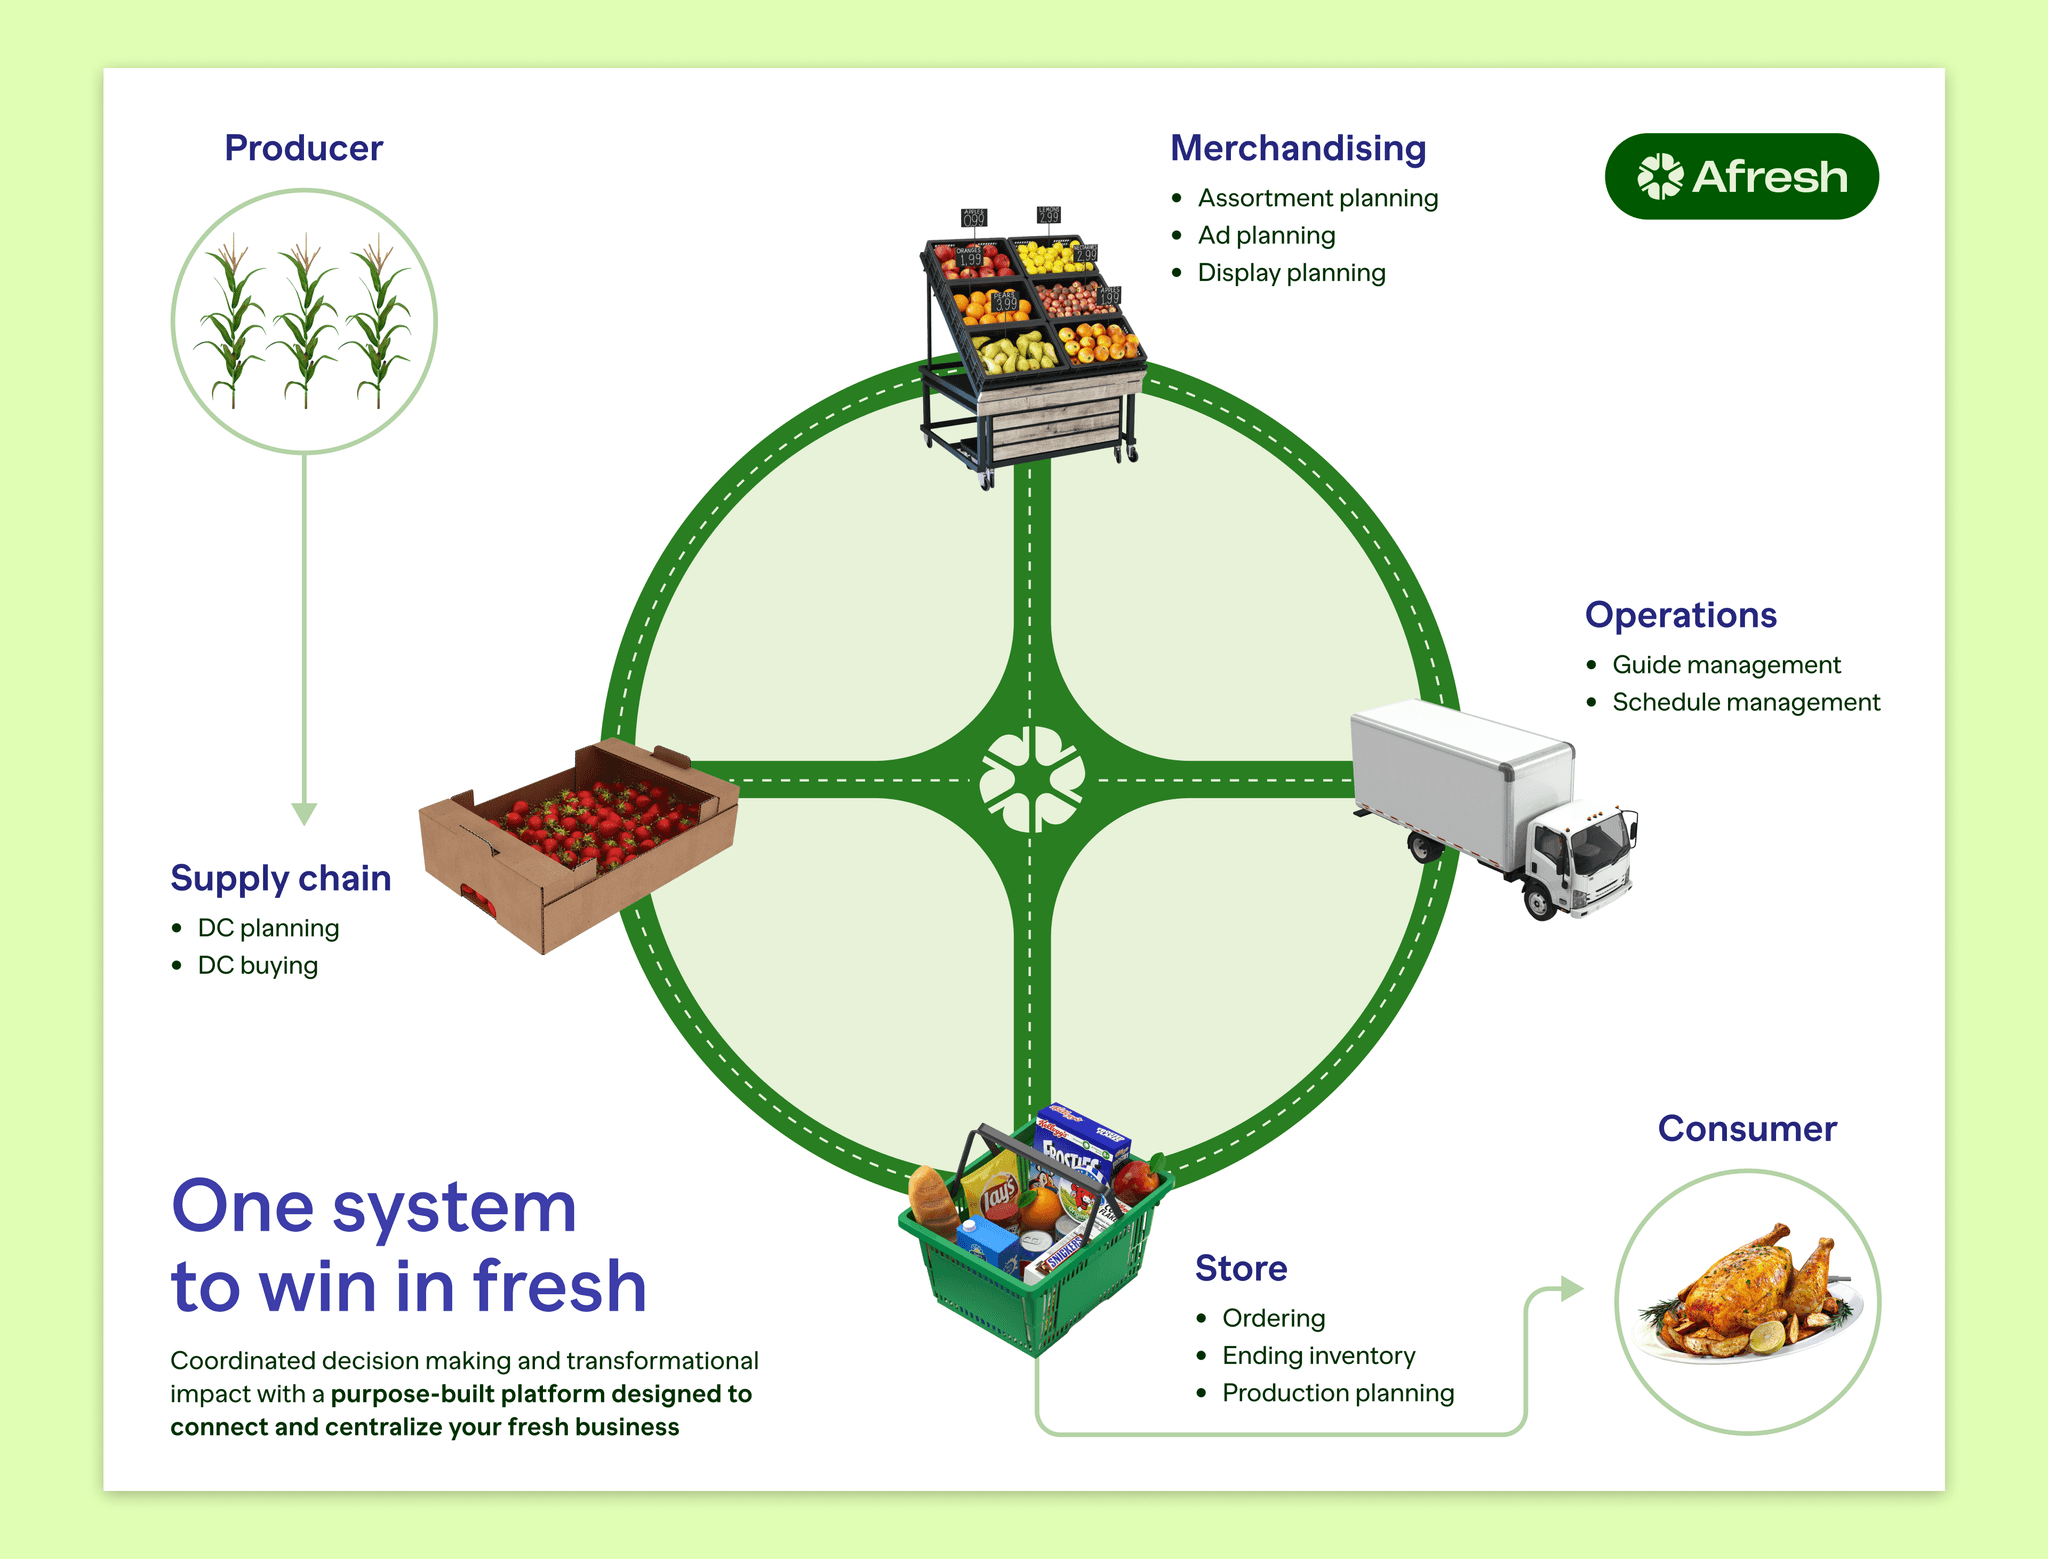
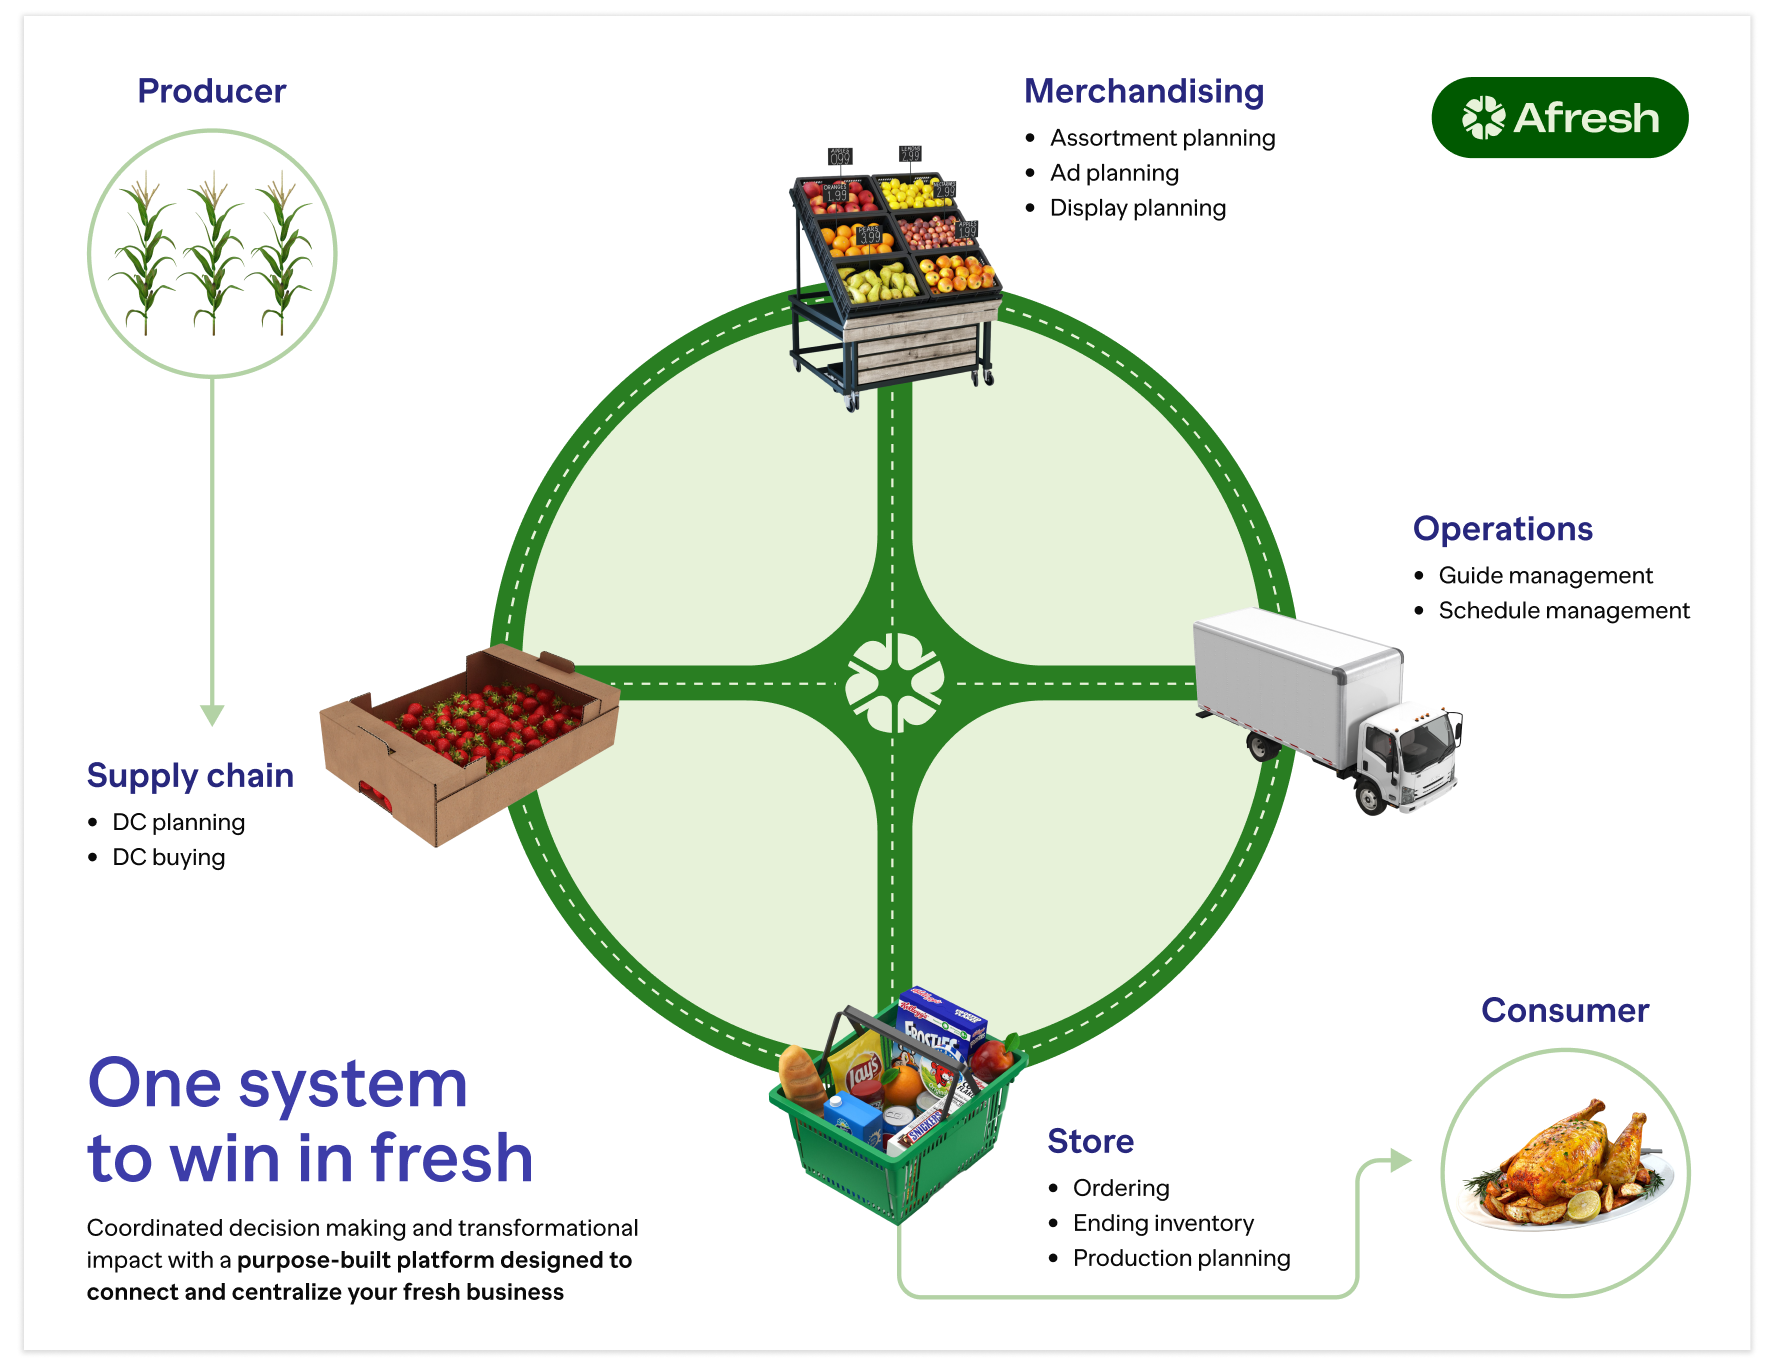
Update Afresh diagram and Guac circular/moodboard images
- Afresh brand refresh: new "One system to win in fresh" diagram
- Guac: new moodboard, new grocery circular pages 1 and 2
- Guac: stack circular pages full-width instead of side by side

diff --git a/projects/guac/index.html b/projects/guac/index.html
@@ -113,9 +113,12 @@
       <p>I also designed a vintage grocery circular inspired by the 1970's era, using this traditional advertising format to showcase Guac's products in a nostalgic manner connected to the booth's overall narrative.</p>
     </div>
 
-    <div class="img-row col-2">
-      <div class="img-row-item" style="aspect-ratio: auto; height: auto;"><img src="Images/Newspaper_image%2012.png" alt="Grocery circular page 1" style="height: auto; object-fit: initial;"></div>
-      <div class="img-row-item" style="aspect-ratio: auto; height: auto;"><img src="Images/Newspaper_Image%2013.png" alt="Grocery circular page 2" style="height: auto; object-fit: initial;"></div>
+    <div class="img-full">
+      <img src="Images/Newspaper_image%2012.png" alt="Grocery circular page 1">
+    </div>
+
+    <div class="img-full">
+      <img src="Images/Newspaper_Image%2013.png" alt="Grocery circular page 2">
     </div>
 
     <div class="img-full">
